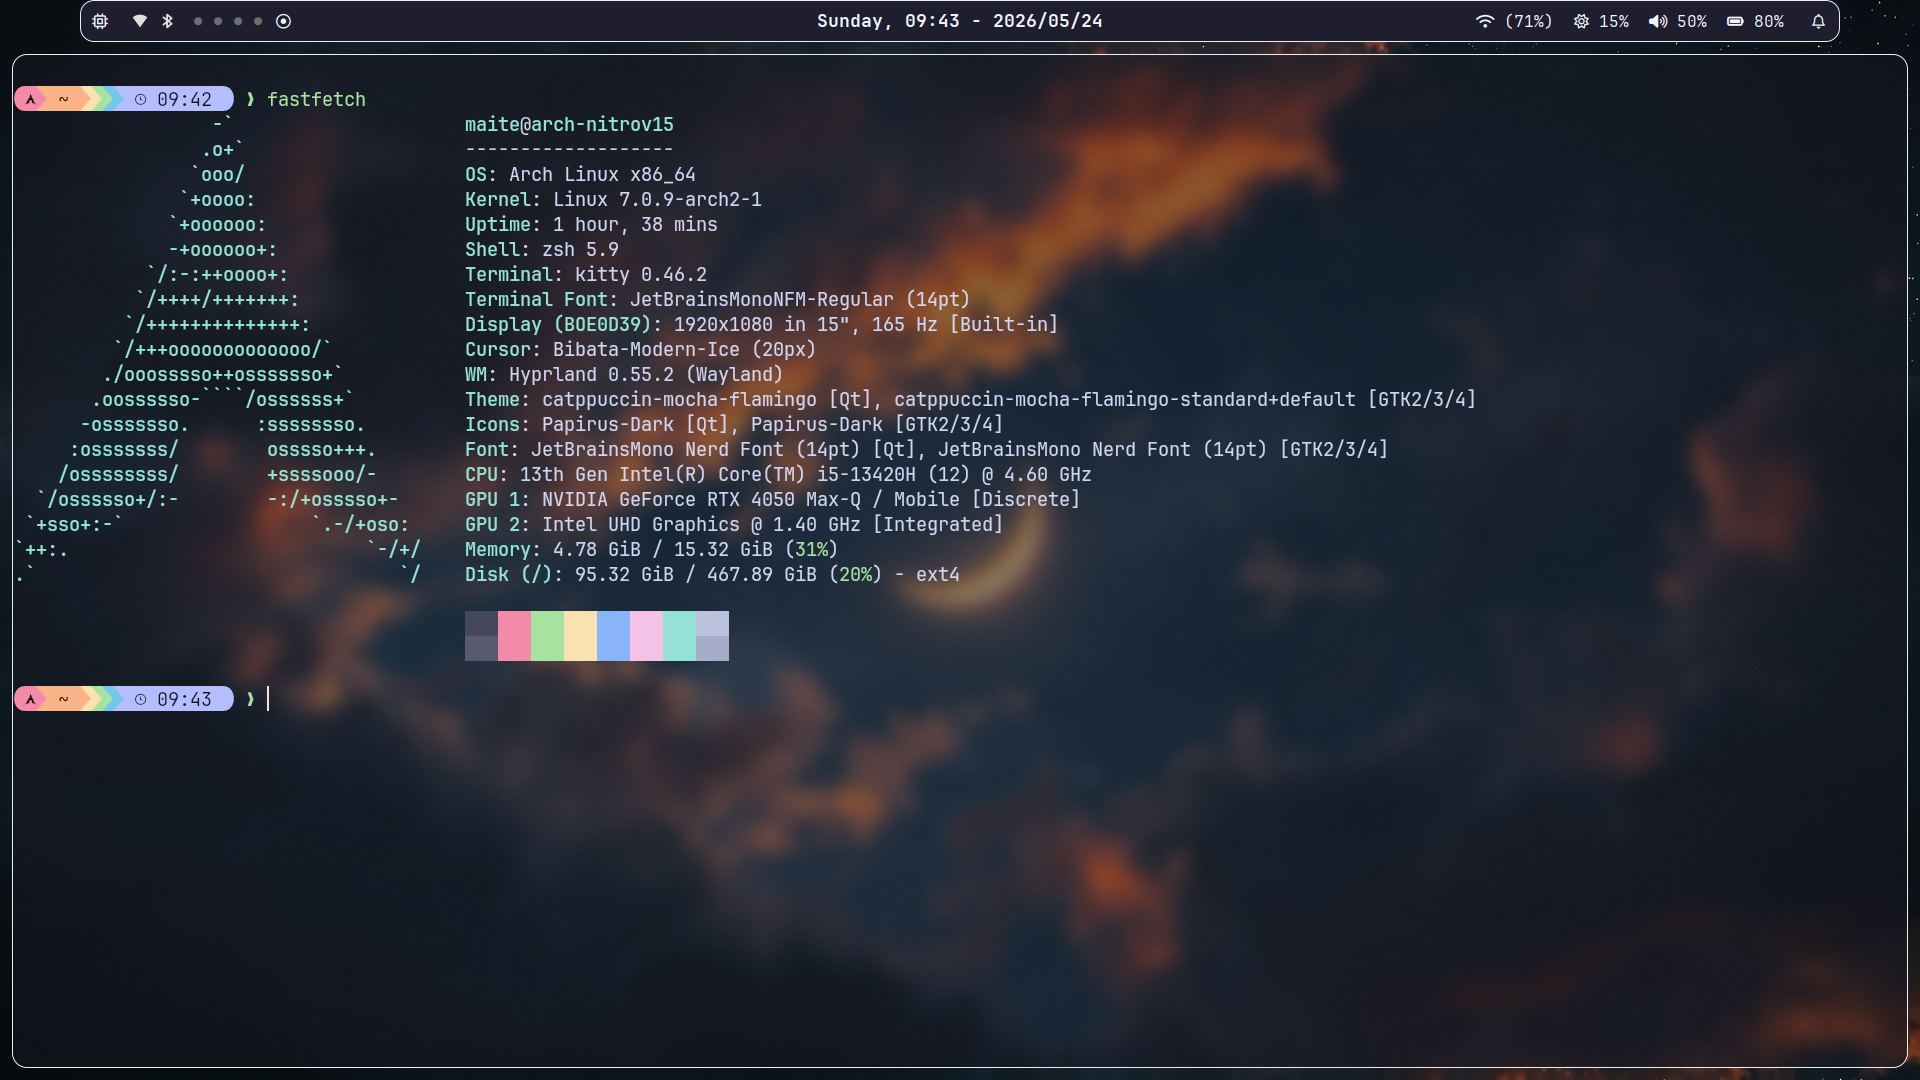
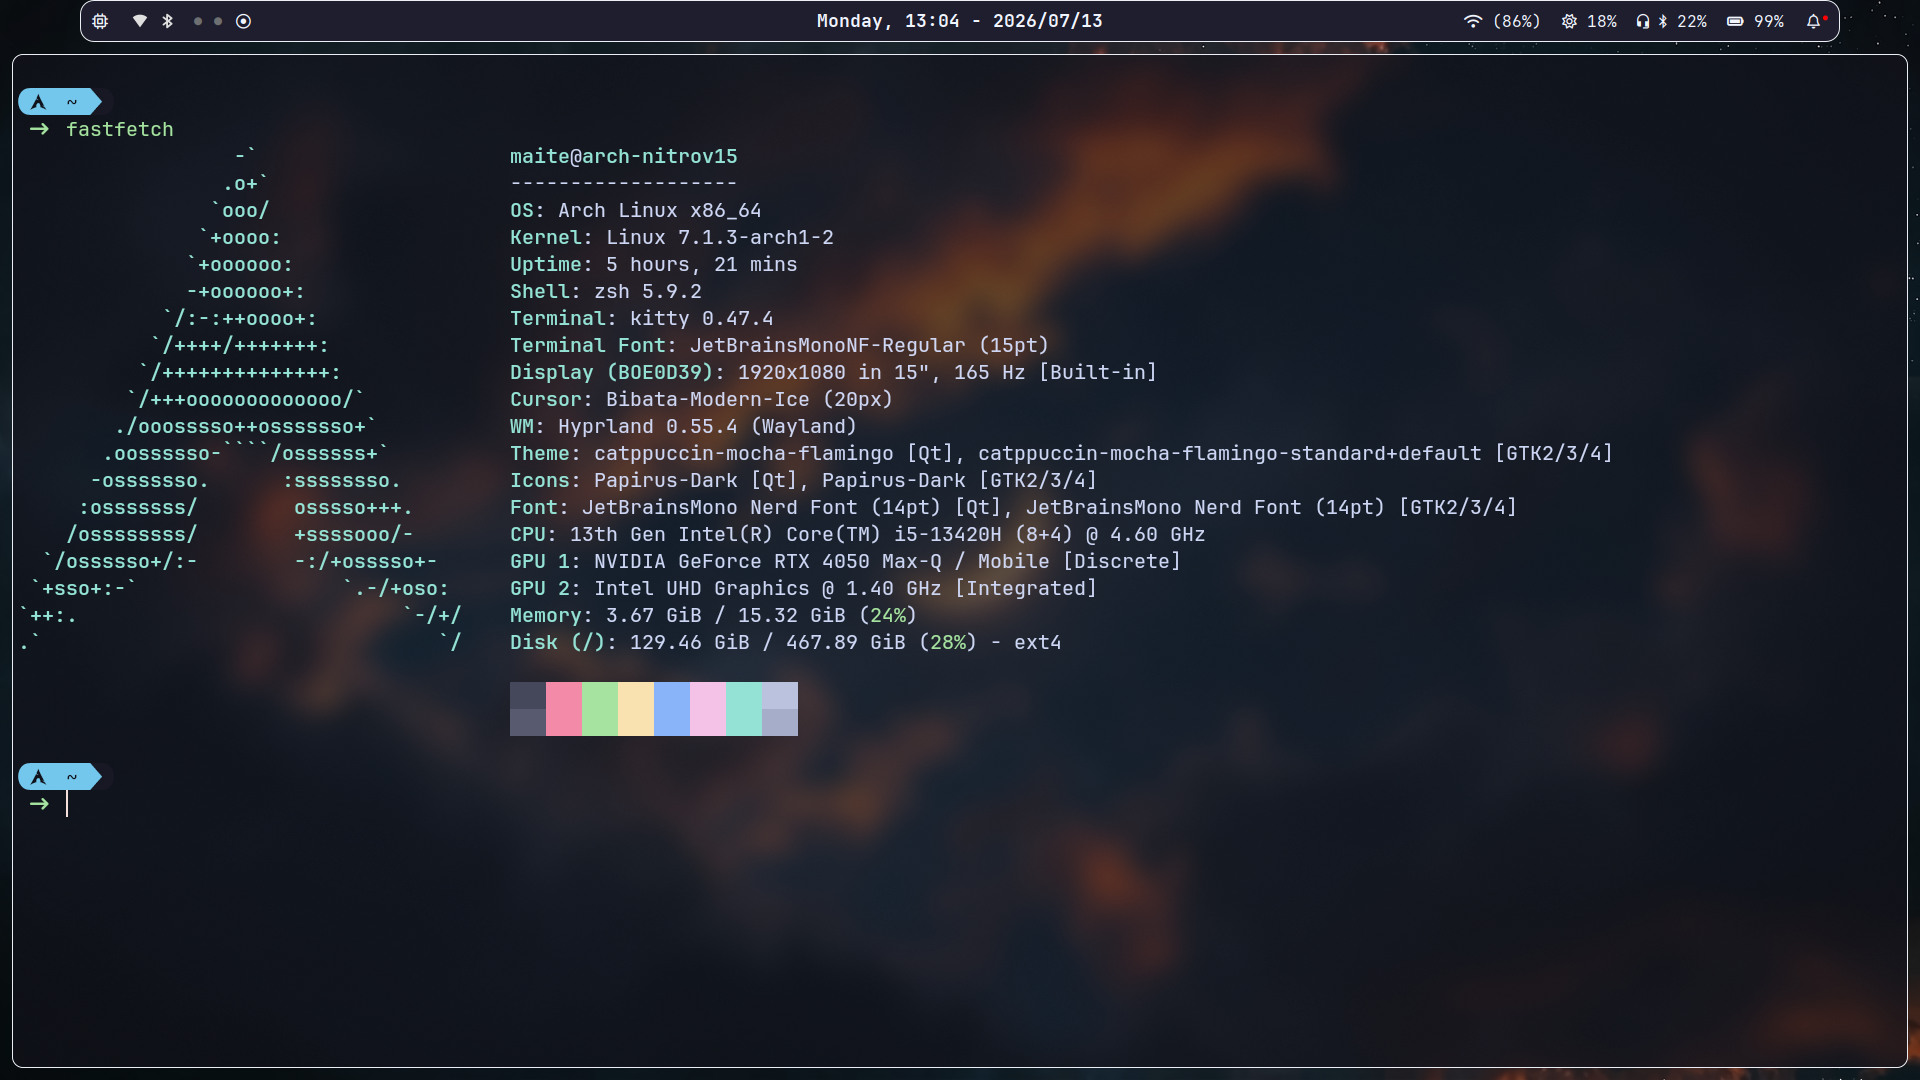
docs: update the 'Showcase' section and the screenshots
- Remove the screenshots with IntelliJ and VsCodium in favor of Neovim
- Update the homescreen, fastfetch and spotify_pipes_cava screenshots to align with the new rice visuals

diff --git a/README.md b/README.md
@@ -116,16 +116,15 @@ Check the ```.config/hypr/modules/binds.lua``` file to see all keybinds.
 </p>
 
 <p align="center">
-  <img src="./screenshots/intellij_terminal.png" width="49%" alt="IntelliJ, and a terminal with log messages" />
-  <img src="./screenshots/intellij_btop.png" width="49%" alt="IntelliJ, and a btop terminal" />
-</p>
-
-<p align="center">
   <img src="./screenshots/spotify_pipes_cava.png" width="49%" alt="Spotify with pipes-rs and cava" />
   <img src="./screenshots/wofi_nautilus.png" width="49%" alt="Nautilus and Wofi launcher" />
 </p>
 
 <p align="center">
-  <img src="./screenshots/codium_unimatrix_terminal.png" width="49%" alt="VsCodium with unimatrix terminal" />
-  <img src="./screenshots/theme-managers_tty-clock.png" width="49%" alt="Theme managers and tty-clock" />
+    <img src="./screenshots/neovim.png" width="49%" alt="Neovim" />
+    <img src="./screenshots/theme-managers_tty-clock.png" width="49%" alt="Theme managers and tty-clock" />
+</p>
+
+<p align="center">
+  <img src="./screenshots/neovim_btop.png" alt="Neovim and a btop terminal" />
 </p>
